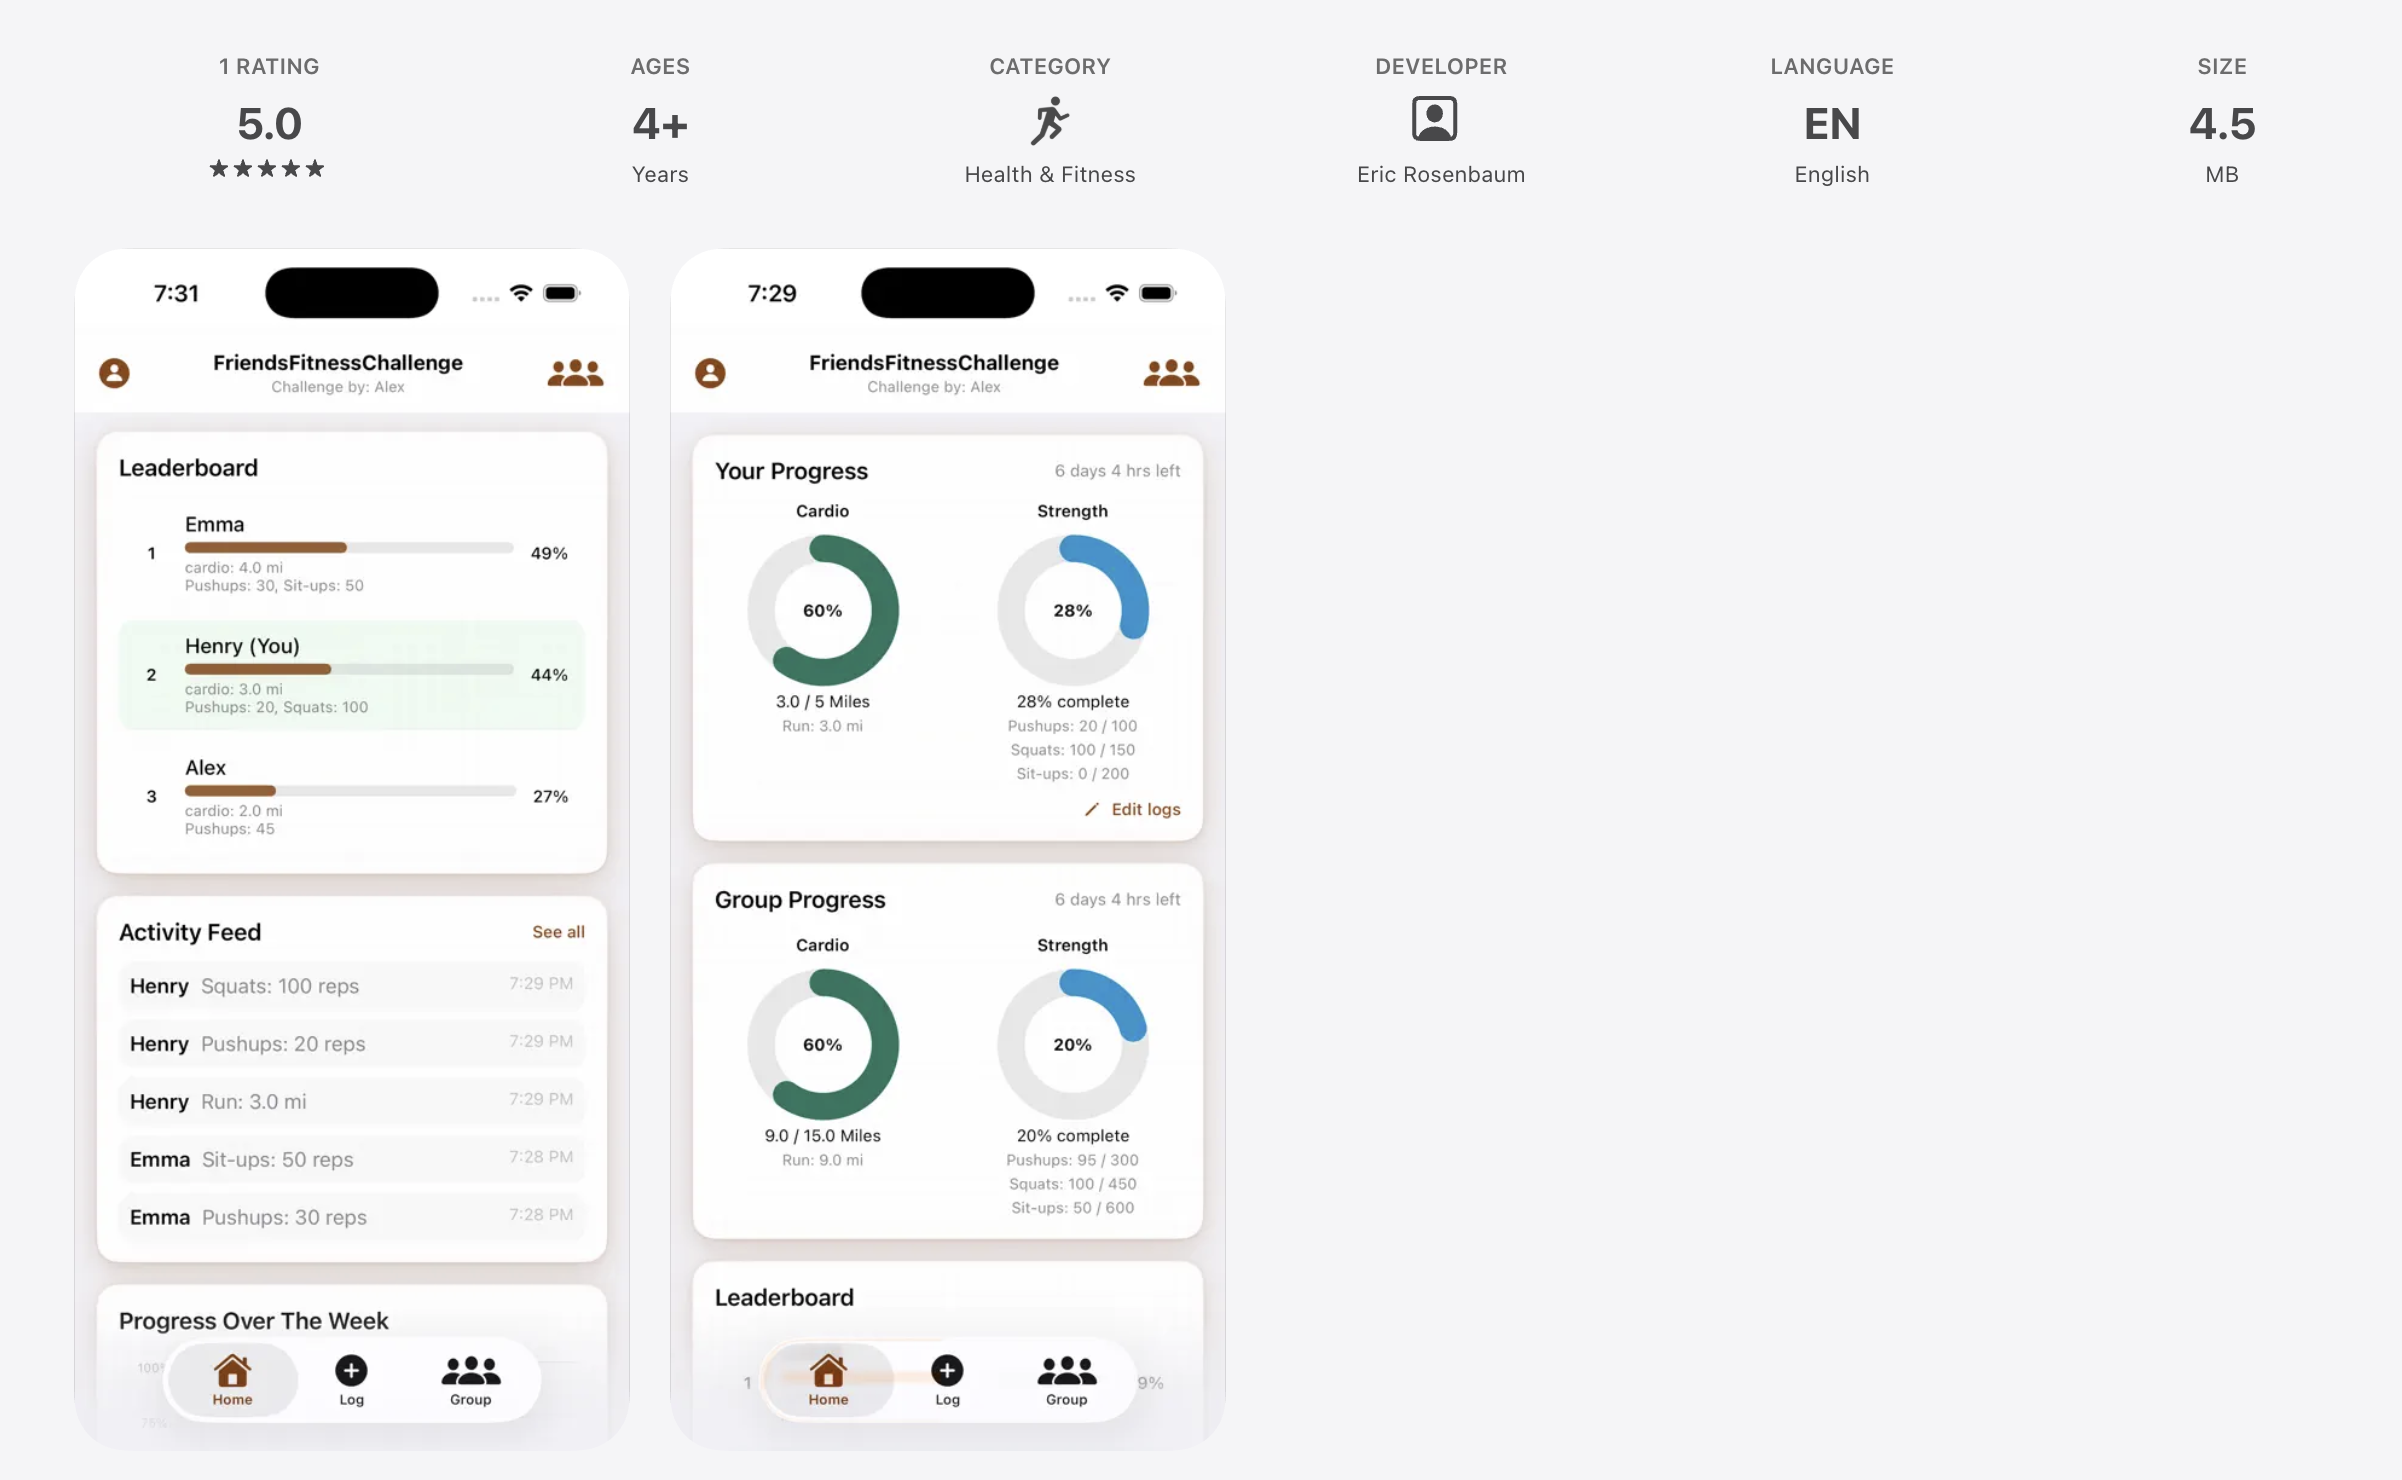
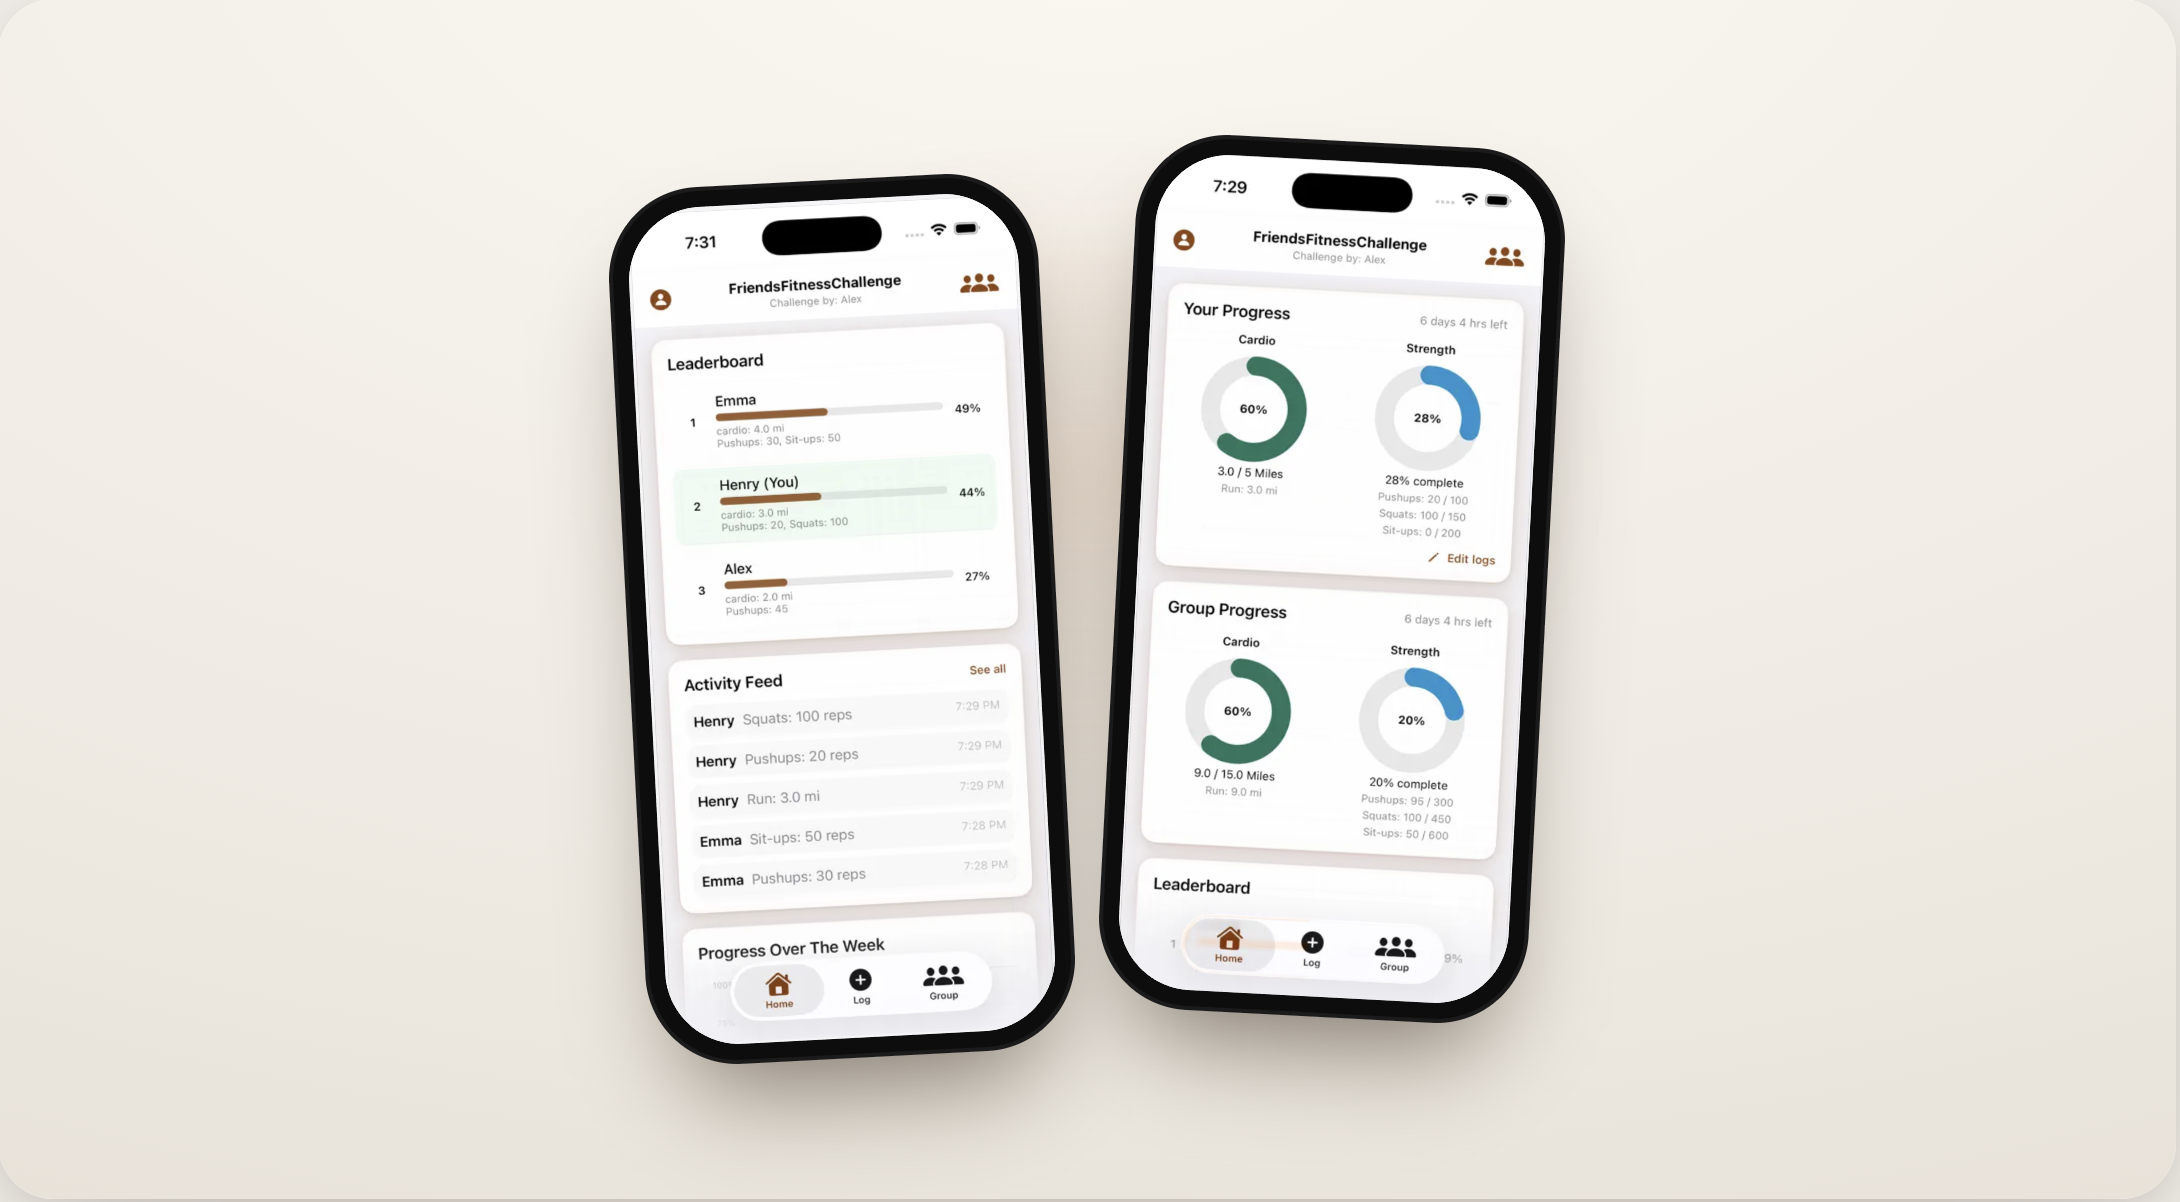
new projects and skills

diff --git a/src/components/ProjectsSection.tsx b/src/components/ProjectsSection.tsx
@@ -5,15 +5,17 @@ const projects = [
   {
     id: 1,
     title: "Nouriva",
+    role: "Solo Founder & Developer",
     subtitle: "AI-Driven Nutritional Tracking",
     imageSrc: "/images/nouriva_photo.png",
-    url: "https://apps.apple.com/us/app/nouriva-nutrition-tracker/id6756892907",
+    url: "https://nouriva.app/",
     tags: ["Swift", "Node.js", "Firebase", "OpenAI"],
     gradient: "linear-gradient(135deg, #e0eed8, #cce4d4)",
   },
   {
     id: 2,
     title: "FriendsFitnessChallenge",
+    role: "Solo Founder & Developer",
     subtitle: "Group Fitness Competition Platform",
     imageSrc: "/images/friendsfitness_photo.png",
     url: "https://apps.apple.com/us/app/friendsfitnesschallenge/id6759629305",
@@ -22,19 +24,21 @@ const projects = [
   },
   {
     id: 3,
-    title: "MySetList",
-    subtitle: "Setlist Sharing for Musicians",
-    imageSrc: "/images/mysetlist_photo.jpg",
-    url: "https://mysetlist.org",
+    title: "CampCommand",
+    role: "Co-Founder & Lead Engineer",
+    subtitle: "Camp Operations Management Software",
+    imageSrc: "/images/campcommand_photo.png",
+    url: "https://www.campcommand.app/",
     tags: ["React", "TypeScript", "Node.js"],
     gradient: "linear-gradient(135deg, #e8f2ec, #d0e8d8)",
   },
   {
     id: 4,
-    title: "SavePlanner",
-    subtitle: "Saving and Retirement Tool",
-    imageSrc: "/images/saveplanner_photo.jpg",
-    url: "https://saveplanner.org",
+    title: "Axonome",
+    role: "Software Engineer",
+    subtitle: "Neurodegeneration Resource Platform for Patients and Caregivers",
+    imageSrc: "/images/axonome_photo.png",
+    url: "https://axonome.vercel.app/",
     tags: ["React", "TypeScript", "Firebase"],
     gradient: "linear-gradient(135deg, #ddeee5, #c4ddd0)",
   },
@@ -89,6 +93,7 @@ const ProjectsSection = () => {
 
 const ProjectCard = ({
   title,
+  role,
   subtitle,
   imageSrc,
   url,
@@ -96,6 +101,7 @@ const ProjectCard = ({
   gradient,
 }: {
   title: string;
+  role: string;
   subtitle: string;
   imageSrc: string;
   url: string | null;
@@ -147,6 +153,18 @@ const ProjectCard = ({
 
       {/* Body */}
       <div style={{ padding: "20px" }}>
+        <p
+          style={{
+            fontSize: "10.5px",
+            textTransform: "uppercase",
+            letterSpacing: "0.1em",
+            fontWeight: 600,
+            color: "var(--accent)",
+            margin: "0 0 6px",
+          }}
+        >
+          {role}
+        </p>
         <h3
           style={{
             fontFamily: "var(--font-display)",

diff --git a/src/components/AboutSection.tsx b/src/components/AboutSection.tsx
@@ -4,7 +4,7 @@ import { Briefcase, Users, Smartphone } from "lucide-react";
 const stats = [
   { icon: Briefcase, number: "2+", label: "Years Experience" },
   { icon: Users,     number: "1000+", label: "Users" },
-  { icon: Smartphone, number: "2",  label: "Apps Launched" },
+  { icon: Smartphone, number: "5",  label: "Apps Launched With Real Users" },
 ];
 
 const timeline = [
@@ -21,7 +21,7 @@ const timeline = [
   {
     date: "May 2024",
     role: "B.S. Mechanical Engineering",
-    company: "Tufts University · GPA 3.83 · Summa Cum Laude",
+    company: "Tufts University · Summa Cum Laude (Highest Honors)",
   },
 ];
 
@@ -90,10 +90,9 @@ const AboutSection = () => {
               marginBottom: "40px",
             }}
           >
-            I also founded and launched two iOS apps — Nouriva and
-            FriendsFitnessChallenge — from concept to App Store. I hold a B.S.
-            in Mechanical Engineering from Tufts University (GPA 3.83, Summa
-            Cum Laude), and served as Music Director of Public Harmony, a
+            I've founded and launched five apps with real users — across iOS
+            and the web — from concept to production. I hold a B.S.
+            in Mechanical Engineering from Tufts University (Summa Cum Laude), and served as Music Director of Public Harmony, a
             400-student community service group.
           </p>
 

diff --git a/src/components/SkillsSection.tsx b/src/components/SkillsSection.tsx
@@ -19,7 +19,16 @@ const skillGroups = [
   },
   {
     label: "AI",
-    items: ["OpenAI APIs", "Cursor", "Retool"],
+    items: [
+      "OpenAI APIs",
+      "Cursor",
+      "Retool",
+      "Claude Code",
+      "Connectors",
+      "Skills",
+      "AI API Integrations",
+      "Prompt Engineering",
+    ],
   },
 ];
 